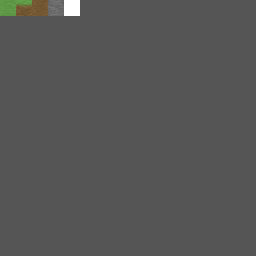
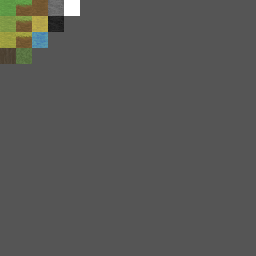
Move cluster-gen directory up

Changed region(s): [[0.0, 0.0625, 0.25, 0.25]]

diff --git a/src/server/cluster-gen/noise-gen/BiomeNoiseGenerator.ts b/src/server/cluster-gen/noise-gen/BiomeNoiseGenerator.ts
@@ -1,0 +1,50 @@
+import { AbsoluteCoordinate, IAbsoluteCoordinate } from "@share/data/coordinate";
+import { INoiseGenerator } from "./INoiseGenerator";
+
+/**
+ * A noise generator that generates random coordinates to guide biome generation.
+ */
+export class BiomeNoiseGenerator implements INoiseGenerator {
+
+  private coords: IAbsoluteCoordinate[];
+
+  constructor
+  (
+    worldSize: number,
+    hillDensity: number,
+    hillAltitude: number,
+    hillSpan: number
+  ) {
+    // Generate random particles to represent hills
+    this.coords = [];
+    const hillCount = Math.floor(worldSize * worldSize / hillDensity);
+    for (let i = 0; i < hillCount; i++) {
+      let x = Math.floor(Math.random() * worldSize);
+      let y = Math.floor(Math.random() * hillSpan + hillAltitude);
+      let z = Math.floor(Math.random() * worldSize);
+      this.coords.push(new AbsoluteCoordinate(x, y, z));
+    }
+  }
+
+  /**
+   * Get iterator for all noise blocks that will ever spawn within a
+   * certain radius of a coordinate.
+   * @param origin The origin from which to seek noise blocks.
+   * @param radius The maximum distance from the origin to select noise blocks from.
+   * @returns An iterator of IAbsoluteCoordinates of noise blocks that fall
+   * within the specified radius of the specified origin, as well as their distances
+   * from the origin.
+   */
+  *getIterator(origin: IAbsoluteCoordinate, radius?: number): Generator<[IAbsoluteCoordinate, number]> {
+    for (let coord of this.coords) {
+      let distance = Math.sqrt(
+        Math.pow(origin.x - coord.x, 2) + 
+        Math.pow(origin.y - coord.y, 2) + 
+        Math.pow(origin.z - coord.z, 2)
+      );
+      if (radius == undefined || distance <= radius) {
+        yield [coord, distance];
+      }
+    }
+  }
+}

diff --git a/src/server/cluster-gen/noise-gen/StandardNoiseGenerator.ts b/src/server/cluster-gen/noise-gen/StandardNoiseGenerator.ts
@@ -10,10 +10,10 @@ export class StandardNoiseGenerator implements INoiseGenerator {
 
   constructor
   (
-    private readonly worldSize: number,
-    private readonly hillDensity: number,
-    private readonly hillAltitude: number,
-    private readonly hillSpan: number
+    worldSize: number,
+    hillDensity: number,
+    hillAltitude: number,
+    hillSpan: number
   ) {
     // Generate random particles to represent hills
     this.coords = [];
@@ -35,14 +35,14 @@ export class StandardNoiseGenerator implements INoiseGenerator {
    * within the specified radius of the specified origin, as well as their distances
    * from the origin.
    */
-  *getIterator(origin: IAbsoluteCoordinate, radius: number): Generator<[IAbsoluteCoordinate, number]> {
+  *getIterator(origin: IAbsoluteCoordinate, radius?: number): Generator<[IAbsoluteCoordinate, number]> {
     for (let coord of this.coords) {
       let distance = Math.sqrt(
         Math.pow(origin.x - coord.x, 2) + 
         Math.pow(origin.y - coord.y, 2) + 
         Math.pow(origin.z - coord.z, 2)
       );
-      if (distance <= radius) {
+      if (radius == undefined || distance <= radius) {
         yield [coord, distance];
       }
     }

diff --git a/src/server/cluster-gen/ClusterGenerator.ts b/src/server/cluster-gen/ClusterGenerator.ts
@@ -15,7 +15,7 @@ export class ClusterGenerator implements IClusterGenerator {
   createWorldCluster(): IClusterData {
     const cluster = new ClusterData();
 
-    const WORLD_SIZE = 200;
+    const WORLD_SIZE = 100;
     const HILL_DENSITY = 160; // How many square meters per hill
     const HILL_ALTITUDE = 2; // Distance between sea level and base of hills
     const HILL_SPAN = 15; // Peak to trough meter span of hills
@@ -25,7 +25,7 @@ export class ClusterGenerator implements IClusterGenerator {
     // Lambda for creating absolute coordinates
     const v = (x: number, y: number, z: number) => new AbsoluteCoordinate(x, y, z);
 
-    const noiseGen: INoiseGenerator = new StandardNoiseGenerator(
+    /*const noiseGen: INoiseGenerator = new StandardNoiseGenerator(
       WORLD_SIZE, HILL_DENSITY, HILL_ALTITUDE, HILL_SPAN
     );
 
@@ -73,6 +73,12 @@ export class ClusterGenerator implements IClusterGenerator {
           }
           cluster.setBlock(v(x, i, z), block);
         }
+      }
+    }*/
+
+    for (let x = 0; x < WORLD_SIZE; x++) {
+      for (let z = 0; z < WORLD_SIZE; z++) {
+        cluster.setBlock(v(x, 0, z), Block.Grass);
       }
     }
 

diff --git a/src/client/game/Game.ts b/src/client/game/Game.ts
@@ -12,7 +12,7 @@ import { AssetManager, IAssetManager } from "@client/assets";
 import { PlayerMotor, IPlayerMotor } from "@client/movement";
 
 // TODO: REMOVE THIS IMPORT
-import { ClusterGenerator, IClusterGenerator } from "@server/game-server/cluster-gen";
+import { ClusterGenerator, IClusterGenerator } from "@server/cluster-gen";
 
 /**
  * The runner class for all game logic.

diff --git a/src/server/cluster-gen/noise-gen/INoiseGenerator.ts b/src/server/cluster-gen/noise-gen/INoiseGenerator.ts
@@ -13,5 +13,5 @@ export interface INoiseGenerator {
    * within the specified radius of the specified origin, as well as their distances
    * from the origin.
    */
-  getIterator(coord: IAbsoluteCoordinate, radius: number): Generator<[IAbsoluteCoordinate, number]>;
+  getIterator(coord: IAbsoluteCoordinate, radius?: number): Generator<[IAbsoluteCoordinate, number]>;
 }

diff --git a/src/server/game-server/GameServer.ts b/src/server/game-server/GameServer.ts
@@ -1,6 +1,6 @@
 import { IClusterData } from "@share/data/cluster-data";
 import { IGameServer } from ".";
-import { ClusterGenerator } from "@server/game-server/cluster-gen";
+import { ClusterGenerator } from "@server/cluster-gen";
 import { ISocketOutgoing } from "@server/socket/socket-outgoing";
 
 /**

diff --git a/src/server/cluster-gen/noise-gen/index.ts b/src/server/cluster-gen/noise-gen/index.ts
@@ -1,0 +1,3 @@
+export { INoiseGenerator } from "./INoiseGenerator";
+export { StandardNoiseGenerator } from "./StandardNoiseGenerator";
+export { BiomeNoiseGenerator } from "./BiomeNoiseGenerator";
